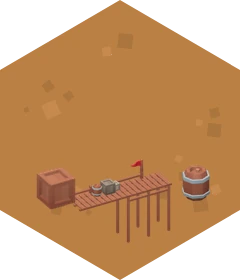
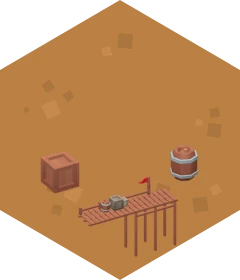
fix: deux vraies îles autour du détroit, et le ponton qui dépasse sur l'eau
Le commanditaire voyait des rives en traits droits : l'archipel était
une seule île étirée coupée par une bande verticale. Il vient désormais
de deux îles du générateur du Livre I, avec leurs baies et leurs caps,
la seconde glissée vers la droite jusqu'à ce que la largeur voulue de
mer les sépare au plus étroit. Le détroit, ce sont les cases de mer
entre les deux rives, ligne par ligne, d'un seul tenant, jamais à plus
de deux cases d'une côte : au large, la mer reste la mer.

Le ponton était au milieu de la tuile de port : il est posé au bord de
la case, du côté de la mer, et dépasse sur l'eau ; la tuile du chargeur
le descend aussi vers son bord. Étoiles des îles 34 à 45 recalibrées sur
les nouvelles formes ; les tests du Livre II cherchent une rive libre au
lieu de la supposer.

Claude-Session: https://claude.ai/code/session_01XHx1sYnE2rY8XF5VjjnSNn

Changed region(s): [[0.1458, 0.5429, 0.7583, 0.9143], [0.7, 0.5143, 0.875, 0.7143]]

diff --git a/src/data/archipel.js b/src/data/archipel.js
@@ -18,30 +18,58 @@ const x = (q, r) => q + r / 2;
  * @returns {{mask:Set<string>, detroit:string[], start:object[], cells:number}}
  */
 export function archipelMask(seed, cells = 60, { largeur = 2 } = {}) {
-  let mask, detroit, terre, tries = 0, total = cells + Math.round(largeur * Math.sqrt(cells) * 1.9);
-  do {
-    mask = generateMask(seed + tries * 977, total, { roughness: 0.32, etire: 2.2, garde: [] });
-    const xs = [...mask].map((k) => { const [q, r] = parse(k); return x(q, r); }).sort((a, b) => a - b);
-    const xm = xs[Math.floor(xs.length / 2)];
-    detroit = new Set([...mask].filter((k) => { const [q, r] = parse(k); const d = x(q, r) - xm; return d >= -largeur / 2 && d < largeur / 2; }));
-    terre = new Set([...mask].filter((k) => !detroit.has(k)));
-    tries++;
-    // la terre doit faire le compte demandé (la bande en prend plus ou moins) : on corrige la taille et on refait
-    if (Math.abs(terre.size - cells) > 2 && tries < 20) { total += cells - terre.size; continue; }
-  } while (tries < 20 && (composantes(terre).length < 2 || composantes(terre)[1].size < terre.size * 0.3));   // deux vraies îles, la petite au moins 30 % de la terre
-  const comps = composantes(terre).slice(0, 2);
-  // le départ : sur chaque île, un port sur la côte du détroit (la case de terre voisine du détroit la plus proche du milieu), un hameau à côté
-  const ys = [...detroit].map((k) => parse(k)[1]).sort((a, b) => a - b); const ym = ys[Math.floor(ys.length / 2)];
-  const start = [];
-  for (const comp of comps) {
-    let best = null, bd = Infinity;
-    for (const k of comp) { const [q, r] = parse(k); if (!neighbors(q, r).some(([a, b]) => detroit.has(key(a, b)))) continue; const d = Math.abs(r - ym); if (d < bd) { bd = d; best = [q, r]; } }
-    if (!best) continue;
-    start.push({ q: best[0], r: best[1], family: 'port' });
-    const voisin = neighbors(best[0], best[1]).find(([a, b]) => comp.has(key(a, b)) && !start.some((s) => s.q === a && s.r === b));
-    if (voisin) start.push({ q: voisin[0], r: voisin[1], family: 'hamlet' });
+  // Deux VRAIES îles (retour du commanditaire : « pas des traits droits, de vraies îles avec une mer entre les deux ») :
+  // chacune vient du générateur du Livre I, avec ses baies et ses caps ; la seconde est glissée à droite de la première
+  // jusqu'à ce que `largeur` cases de mer les séparent au plus étroit. Le détroit, ce sont les cases de mer entre les deux
+  // rives, ligne par ligne, jamais plus loin que `largeur + 2` d'une côte : au large des baies qui se font face, la mer reste
+  // la mer (hors du masque). Les rives ont donc la forme des îles, pas celle d'une règle.
+  const nA = Math.round(cells * 0.55), nB = cells - nA;
+  let mask = null, detroit = null, terre = null, start = [];
+  for (let tries = 0; tries < 24 && !mask; tries++) {
+    const A = generateMask(seed + tries * 977, nA, { roughness: 0.34, etire: 1.25, garde: [] });
+    const B = generateMask(seed * 3 + 11 + tries * 977, nB, { roughness: 0.34, etire: 1.25, garde: [] });
+    // bord droit de A et bord gauche de B, ligne par ligne (x = q + r/2 : la coordonnée horizontale des hexagones)
+    const droite = new Map(), gauche = new Map();
+    for (const k of A) { const [q, r] = parse(k); droite.set(r, Math.max(droite.get(r) ?? -Infinity, q)); }
+    for (const k of B) { const [q, r] = parse(k); gauche.set(r, Math.min(gauche.get(r) ?? Infinity, q)); }
+    // le décalage de B : au plus étroit, `largeur` cases de mer entre les deux (même ligne : q_B − q_A − 1 cases entre)
+    let s = -Infinity;
+    for (const [r, qa] of droite) if (gauche.has(r)) s = Math.max(s, qa + largeur + 1 - gauche.get(r));
+    if (s === -Infinity) continue;   // aucune ligne commune : les îles ne se font pas face
+    const Bd = new Set([...B].map((k) => { const [q, r] = parse(k); return key(q + s, r); }));
+    // aucune case de A ne touche B (les voisins d'une ligne à l'autre) : sinon on écarte encore
+    let touche = false; for (const k of A) { const [q, r] = parse(k); if (neighbors(q, r).some(([a, b]) => Bd.has(key(a, b)))) { touche = true; break; } }
+    if (touche) { s += 1; }
+    const B2 = touche ? new Set([...B].map((k) => { const [q, r] = parse(k); return key(q + s, r); })) : Bd;
+    terre = new Set([...A, ...B2]);
+    // le détroit : entre les deux rives, ligne par ligne, au plus `largeur + 2` cases de chaque côte
+    detroit = new Set();
+    const gaucheB = new Map(); for (const k of B2) { const [q, r] = parse(k); gaucheB.set(r, Math.min(gaucheB.get(r) ?? Infinity, q)); }
+    for (const [r, qa] of droite) {
+      if (!gaucheB.has(r)) continue; const qb = gaucheB.get(r);
+      for (let q = qa + 1; q < qb; q++) if (q - qa <= largeur + 2 || qb - q <= largeur + 2) detroit.add(key(q, r));
+    }
+    // le détroit doit se tenir d'un seul tenant entre les deux ports : on garde la plus grande composante
+    const comps = composantes(detroit); if (!comps.length) continue;
+    detroit = new Set(comps[0]);
+    // les deux îles doivent toucher le détroit (sinon une rive n'a pas de port possible)
+    const touchent = [A, B2].every((ile) => [...ile].some((k) => { const [q, r] = parse(k); return neighbors(q, r).some(([a, b]) => detroit.has(key(a, b))); }));
+    if (!touchent || detroit.size < largeur * 3) continue;
+    mask = new Set([...terre, ...detroit]);
+    // le départ : sur chaque île, un port sur la côte du détroit (la case de terre voisine du détroit la plus proche du milieu), un hameau à côté
+    const ys = [...detroit].map((k) => parse(k)[1]).sort((a, b) => a - b); const ym = ys[Math.floor(ys.length / 2)];
+    start = [];
+    for (const comp of [A, B2]) {
+      let best = null, bd = Infinity;
+      for (const k of comp) { const [q, r] = parse(k); if (!neighbors(q, r).some(([a, b]) => detroit.has(key(a, b)))) continue; const d = Math.abs(r - ym); if (d < bd) { bd = d; best = [q, r]; } }
+      if (!best) continue;
+      start.push({ q: best[0], r: best[1], family: 'port' });
+      const voisin = neighbors(best[0], best[1]).find(([a, b]) => comp.has(key(a, b)) && !start.some((t) => t.q === a && t.r === b));
+      if (voisin) start.push({ q: voisin[0], r: voisin[1], family: 'hamlet' });
+    }
   }
-  return { mask: new Set([...terre, ...detroit]), detroit: [...detroit], start, cells: terre.size };
+  if (!mask) throw new Error(`archipelMask : pas d'archipel pour la graine ${seed}`);
+  return { mask, detroit: [...detroit], start, cells: terre.size };
 }
 
 /** La file d'un archipel : les familles de la côte, la pinède et le port, et une part `mer` de tuiles de mer (mer, récif, algues). */

diff --git a/tests/livre2.test.js b/tests/livre2.test.js
@@ -133,7 +133,10 @@ const defMech = (seed, cells, extra = {}) => ({ ...defDe(seed, cells), mech: new
   // le phare : une case de terre qui touche une case du chemin
   const sansMarch = (r) => r.pts - r.marchandises.length * R.route.marchandise;   // le phare compte comme roche : posé contre un port, il serait aussi une marchandise
   const avantPhare = sansMarch(computeRoutes(b).find((r) => r.pts));
-  let cp = null; for (const k of chemin) { const [q, r] = k.split(',').map(Number); cp = caseLibre(isl, q, r); if (cp) break; }
+  // une case de terre libre qui touche la route ; s'il n'y en a pas le long du chemin, on allonge la route d'une case de mer vers une rive libre
+  const terreLibre = (q, r) => neighbors(q, r).find(([a, c]) => b.isEmpty(a, c) && !b.detroit.has(key(a, c)));
+  let cp = null; for (const k of chemin) { const [q, r] = k.split(',').map(Number); cp = terreLibre(q, r); if (cp) break; }
+  if (!cp) for (const k of chemin) { const [q, r] = k.split(',').map(Number); for (const [a, c] of neighbors(q, r)) { if (!b.detroit.has(key(a, c)) || !b.isEmpty(a, c)) continue; const t = terreLibre(a, c); if (t) { b.place(a, c, { family: 'sea', variant: 1, id: 14 }); cp = t; break; } } if (cp) break; }
   b.place(cp[0], cp[1], { family: 'phare', variant: 1, rare: true, id: 13 });
   const apresPhare = sansMarch(computeRoutes(b).find((r) => r.pts));
   check(apresPhare === avantPhare + R.route.phare, `le phare fait payer la route qui le touche +${R.route.phare} (${avantPhare} → ${apresPhare}, marchandises à part)`);
@@ -162,12 +165,18 @@ const defMech = (seed, cells, extra = {}) => ({ ...defDe(seed, cells), mech: new
   const [q0, r0] = chemin[0].split(',').map(Number); b.tiles.get(chemin[0]).family = 'reef';
   const [q1, r1] = chemin[chemin.length - 1].split(',').map(Number); b.tiles.get(chemin[chemin.length - 1]).family = 'kelp';
   // une pinède au bord de la mer, une roche loin de tout pour l'eau
-  let cp = null; for (const k of chemin) { const [q, r] = k.split(',').map(Number); cp = caseLibre(isl, q, r); if (cp) break; }
+  // une pinède au bord de la mer : n'importe quelle case de terre libre qui touche le détroit
+  let cp = null; for (const k of b.mask) { const [q, r] = k.split(',').map(Number); if (b.isEmpty(q, r) && !b.detroit.has(k) && neighbors(q, r).some(([a, c]) => b.detroit.has(key(a, c)))) { cp = [q, r]; break; } }
   b.place(cp[0], cp[1], { family: 'pine', variant: 1, id: 21 }); b.touch();
   const hiver = transition(b, 'winter', 'tempete', {});
   check(hiver.some((e) => e.type === 'tempete' && e.q === q0 && e.r === r0 && e.pts === S2.tempete.recif), `tempête : le récif rapporte +${S2.tempete.recif}`);
   check(hiver.some((e) => e.type === 'tempete' && e.q === cp[0] && e.r === cp[1] && e.pts === S2.tempete.pinede), `tempête : la pinède au bord de la mer rapporte +${S2.tempete.pinede}`);
   check(!hiver.some((e) => e.type === 'freeze' || e.type === 'veillee'), 'tempête : pas de gel, pas de veillée');
+  // l'estran a besoin d'une terre qui ne soit pas un port contre la mer posée : on pose un sable contre le chemin (en allongeant la mer d'une case s'il le faut)
+  { const terreLibre = (q, r) => neighbors(q, r).find(([a, c]) => b.isEmpty(a, c) && !b.detroit.has(key(a, c)));
+    let cs = null; for (const k of chemin) { const [q, r] = k.split(',').map(Number); cs = terreLibre(q, r); if (cs) break; }
+    if (!cs) for (const k of chemin) { const [q, r] = k.split(',').map(Number); for (const [a, c] of neighbors(q, r)) { if (!b.detroit.has(key(a, c)) || !b.isEmpty(a, c)) continue; const t = terreLibre(a, c); if (t) { b.place(a, c, { family: 'sea', variant: 1, id: 24 }); cs = t; break; } } if (cs) break; }
+    if (cs) b.place(cs[0], cs[1], { family: 'sand', variant: 1, id: 25 }); b.touch(); }
   const printemps = transition(b, 'spring', 'maree', {});
   const estran = printemps.filter((e) => e.type === 'maree');
   check(estran.length > 0 && estran.every((e) => e.pts === (Board.isFamily(b.get(e.q, e.r), 'kelp') ? S2.maree.algues : S2.maree.estran)), `marée basse : ${estran.length} tuile(s) de mer contre la terre paient l’estran (+${S2.maree.estran}, algues +${S2.maree.algues})`);

diff --git a/src/game/decor.js b/src/game/decor.js
@@ -645,8 +645,14 @@ export class Decor {
             // les algues : trois touffes de varech, recolorées par saison
             for (const p of sample(rng, cell, keys, 3, { minDist: 22, margin: 14, placed, radius: 0.8 })) { placed.push(p); const w = wild(rng, 0.8, 1.2); push(p, `obj_algue${VAR3(rng)}_{s}`, w); }
           } else if (family === 'port') {
-            // le port : les docks au milieu, une barque et une ancre au bord, des caisses
-            for (const p of sample(rng, cell, keys, 1, { minDist: 0, margin: 34, placed, radius: 0.18 })) { placed.push(p); push(p, 'obj_ponton{w}', { scale: 1.0 }); }
+            // le port : les docks DÉPASSENT sur l'eau (retour du commanditaire : « il doit dépasser sur l'eau »), posés au bord
+            // de la case, du côté de la mer la plus proche ; une barque et une ancre au bord, des caisses
+            { const c0 = toWorld(cell.q, cell.r); let dir = null;
+              for (const d of DIRS) if (board.isSea(cell.q + d[0], cell.r + d[1])) { dir = d; break; }
+              if (!dir) for (const d of DIRS) { const n = board.get(cell.q + d[0], cell.r + d[1]); if (n && Board.isFamily(n, 'water')) { dir = d; break; } }
+              const v = dir ? toWorld(cell.q + dir[0], cell.r + dir[1]) : null;
+              const p = v ? { x: c0.x + (v.x - c0.x) * 0.62, y: c0.y + (v.y - c0.y) * 0.62 } : { x: c0.x, y: c0.y + 10 };
+              placed.push(p); push(p, 'obj_ponton{w}', { scale: 1.0 }); }
             for (const p of sample(rng, cell, keys, 2, { minDist: 30, margin: 10, placed, radius: 0.95 })) { placed.push(p); const r2 = rng(); push(p, r2 < 0.4 ? 'obj_boat' : r2 < 0.7 ? 'obj_anchor' : PICK(rng, ['obj_crate', 'obj_barrel']), wild(rng, 0.8, 1.05)); }
           } else if (family === 'pine') {
             // la pinède : deux ou trois pins parasols (un pin maritime parfois), toujours verts, des oyats sur le sable

diff --git a/src/data/campaign_stars.js b/src/data/campaign_stars.js
@@ -33,16 +33,16 @@ export const CAMPAIGN_STARS = {
   31: [2.3, 3.3, 4.2, 5.6],
   32: [4, 5.8, 7.5, 10],
   33: [3.3, 4.8, 6.2, 8.3],
-  34: [4, 5.8, 7.5, 10],
-  35: [3.9, 5.6, 7.3, 9.7],
-  36: [3.6, 5.2, 6.7, 8.9],
-  37: [4.2, 6.1, 7.8, 10.5],
-  38: [3.6, 5.2, 6.7, 9],
-  39: [4.4, 6.4, 8.3, 11],
-  40: [4.6, 6.7, 8.6, 11.5],
-  41: [4.4, 6.4, 8.3, 11.1],
-  42: [4.1, 5.9, 7.6, 10.1],
-  43: [4.4, 6.4, 8.3, 11],
-  44: [3.8, 5.6, 7.2, 9.6],
-  45: [4.3, 6.3, 8.1, 10.9],
+  34: [3.7, 5.3, 6.9, 9.1],
+  35: [4, 5.8, 7.6, 10.1],
+  36: [3.8, 5.6, 7.2, 9.6],
+  37: [4, 5.9, 7.6, 10.1],
+  38: [4.3, 6.2, 8, 10.7],
+  39: [3.9, 5.7, 7.4, 9.8],
+  40: [3.8, 5.5, 7.1, 9.5],
+  41: [4.6, 6.6, 8.6, 11.4],
+  42: [4.1, 5.9, 7.6, 10.2],
+  43: [4.4, 6.3, 8.2, 10.9],
+  44: [4, 5.9, 7.6, 10.1],
+  45: [4.2, 6.1, 7.9, 10.5],
 };

diff --git a/tools/build_images.py b/tools/build_images.py
@@ -809,7 +809,7 @@ TILES = {
                 note="Récif : deux rochers gris du pack Forest à fleur d'eau, deux vagues."),
     "kelp_1": T("kelp", "water", [L("kay:roseau_A", 44, 86, "kelp", width=28), L("kay:roseau_B", 76, 96, "kelp", width=30), L("kay:roseau_C", 58, 110, "kelp", width=26), L("ht:waveWater:3.7", 80, 62, "wave")], base_kind="water",
                 note="Algues : trois massettes KayKit recolorées en varech, une vague."),
-    "port_1": T("port", "dirt_06", [L("kay:ponton", 60, 96, "static", width=104), L("kay:barrel", 98, 98, scale=1.2), L("kay:crate", 28, 100, scale=1.1)], base_kind="dirt",
+    "port_1": T("port", "dirt_06", [L("kay:ponton", 64, 104, "static", width=100), L("kay:barrel", 92, 88, scale=1.2), L("kay:crate", 30, 92, scale=1.1)], base_kind="dirt",
                 note="Port : les docks du pack EXTRA sur la terre battue, un tonneau, une caisse."),
     "pine_1": T("pine", "sand_07", [L("kay:pin_parasol_A", 44, 84, "static", width=56), L("kay:pin_parasol_B", 80, 96, "static", width=52), L("kay:bloc_brun", 96, 106, "rock", width=26)], base_kind="sand", base_zoom=1.08,
                 note="Pinède : deux pins parasols (pack Forest) sur le sable, un rocher brun — toujours verts, l'hiver aussi."),

diff --git a/JOURNAL_DE_BORD.md b/JOURNAL_DE_BORD.md
@@ -677,3 +677,4 @@ Le proxy réseau bloque les sites des banques ; les assets sont récupérés dep
 | « Go pour 7b » (le commanditaire). Le Livre II avait ses cinq familles et ses rentes, mais rien de ce que la feuille promettait ensuite : ni rares de mer, ni surprises de mer, ni climat venteux, ni faune ; la pinède se disait « qui ne sèche pas » sans que la règle existe | **Livre II, lot 7b — les règles.** La pinède abrite les prairies de la sécheresse comme la forêt. Trois rares vivent des routes : la **taverne** (+1 par port relié aux ports qui la touchent, au plus 4), le **marché** (+1 par marchandise différente de ces routes, au plus 5), le **phare** (compte comme roche ; chaque route qui le touche paie +2 de plus) — la taverne et le marché, retirés par l'audit, reviennent avec ce sens neuf et leurs images d'alors. La fusion port + forêt donne le **chantier naval** (+1 par mer voisine, au plus 3). Deux surprises de mer prennent la place d'une surprise de terre à partir de leurs îles (`reglesPour(mech)` : le Livre I ne change pas) : la **tempête** en hiver (les routes ne paient pas, pas de gel ni de veillée, récif +2, pinède au bord de la mer +1) remplace l'hiver doux dès l'île 37 ; la **marée basse** au printemps (l'estran : mer contre terre +1, algues +2, les marais sous l'eau) remplace les semailles dès l'île 40. Le **climat venteux** du chapitre 13 : +1 par port relié, l'automne dure deux saisons, un champ ou un verger sans abri (forêt, pinède, colline, roche, hameau) perd 1 par saison, et le vent souffle en permanence sur l'île (`climate.look`). Les rares du Livre II entrent dans le tirage dès les ports, le phare dès son île. Guide, récit, cartes de mécanique, bilan (« Tempête », « Marée basse », « Vent ») | `tests/livre2.test.js` : 24 vérifications de plus (46 en tout), `rules.test.js` inchangé et vert |
 | Lot 7b, suite : sans image, le phare, le chantier et les bêtes de mer n'étaient que des règles ; les forêts avaient les mêmes arbres sous tous les ciels (« les autres arbres des packs en variantes de climat, sans règle », décision 3) | **Les images.** Le phare est une tour de guet KayKit sur la roche, un récif au pied, une vague ; sa lanterne est un halo chaud qui respire, dessiné en jeu (un dégradé, pas une image). Le chantier naval a sa halle (le pack EXTRA en avait une, inemployée depuis le Livre I), une barque en cale et des rondins. **Les arbres suivent le climat** (`decor.climat`, posé par le rendu) : chênes ronds et pins parasols au chaud, sapins étagés et épicéas au froid (blancs l'hiver), frondaisons pleines recolorées par saison sous les pluies, pins maritimes et arbres tordus dans le vent ; le tempéré garde ses arbres. **La faune de mer** : la baleine (une mer posée d'un seul tenant, cinq cases), le morse (des algues, deux cases, contre la roche) et le narval (une route qui relie deux ports) — les packs libres n'ont ni dauphin ni phoque, l'Animal Pack Redux (CC0) a une baleine, un morse et un narval, on prend ce qui est gratuit. Ils sont dessinés à la ligne de flottaison comme la baleine du large (seule la partie émergée, un remous dessous, une ondulation), sans ombre ni promenade ; deux vœux de campagne (« Une baleine », « Un narval »), le Guide et le récit les connaissent. La passe WebP tolère désormais une passe interrompue (un PNG déjà converti remet le manifeste d'accord au lieu de planter). Corrigé en route : la découpe à la ligne d'eau ne montrait que le dos des bêtes, un point sombre ; la recette du phare débordait de l'hexagone | Vitrine au navigateur (île 42 et île 37 venteuse, plateau forcé) : phare allumé, taverne, chantier, baleine, narval et morse à fleur d'eau, feuilles qui volent sous le vent ; aucune erreur |
 | « Je viens d'imaginer un mode : la mer descend et révèle de nouvelles cases déjà pleines après cinq coups, à peaufiner » (le commanditaire) | Prototypé comme une **île** avant d'être un mode : les Grèves (40) ont un détroit de quatre cases de large ; l'**estran** (les cases du détroit qui touchent la terre, 36 sur 78) est rangé du nord au sud en vagues de quatre, chacune avec sa tuile tirée d'avance (sable, algues, marais, récif). Toutes les cinq poses, la mer descend d'une vague (`Island.decouvrir`) : ses tuiles émergent et comptent comme des poses — bords, primes, fermetures, cumul « la mer qui descend » — sans consommer la file ; le sable et le marais deviennent de la terre (la case sort du détroit, la côte change de forme), les algues et le récif restent de la mer ; une case où le joueur avait posé la mer garde sa tuile. **On voit les deux prochaines vagues sous l'eau** (`drawEstran` : l'image de la tuile sous un voile d'eau, la prochaine cernée d'un pointillé qui respire) — c'est la décision : bâtir la côte pour ce qui va sortir. La bulle de saison compte les poses. Reprise et annulation remettent la marée et le détroit où ils étaient (`syncMaree`). Mesuré au robot (`docs/FEUILLE_LIVRE_II.md`) : le score monte de 65 % (381–425 → 640–727), neuf vagues sur neuf émergent, aucune tuile de mer perdue ; les étoiles de l'île 40 sont recalibrées. Un premier essai montrait tout l'estran en silhouettes : une grille pâle sur tout le détroit, on n'en montre plus que deux vagues | À juger par le commanditaire en jouant l'île 40 : décision ou rente ? Deux vis prêtes si c'est une rente (une seule vague visible, ou des tuiles émergées qui ne paient pas leurs bords) |
+| « Les îles des captures ne sont pas du tout réalistes, tu as fait des traits droits. Je veux de vraies îles avec une mer entre les deux. Le ponton est en plein milieu de la tuile, il doit dépasser sur l'eau » (le commanditaire) | L'archipel était une seule île étirée coupée par une bande verticale : les deux rives du détroit étaient des lignes. **Deux vraies îles** désormais (`archipelMask`) : chacune vient du générateur du Livre I avec ses baies et ses caps (55 % et 45 % de la terre), la seconde glissée vers la droite jusqu'à ce que la largeur voulue de mer les sépare au plus étroit, sans qu'aucune case ne touche l'autre île ; le détroit, ce sont les cases de mer entre les deux rives, ligne par ligne, jamais à plus de `largeur + 2` d'une côte — au large des baies qui se font face, la mer reste la mer, hors du masque — et d'un seul tenant (la plus grande composante), pour que les routes passent. Les rives ont la forme des îles, pas celle d'une règle. **Le ponton** est posé au bord de la case, du côté de la mer la plus proche (`decor.js` : 62 % du chemin vers la case de mer voisine), et dépasse sur l'eau ; la tuile de port du chargeur d'images le descend aussi vers son bord. Les tests du Livre II supposaient qu'une case de terre libre touchait toujours le chemin de mer : ils cherchent maintenant une rive libre, ou allongent la mer d'une case. Les étoiles des îles 34 à 45 sont recalibrées sur les nouvelles formes | Captures des îles 34 et 40 : deux îles aux côtes découpées, une mer entre elles, les pontons qui avancent sur l'eau |
